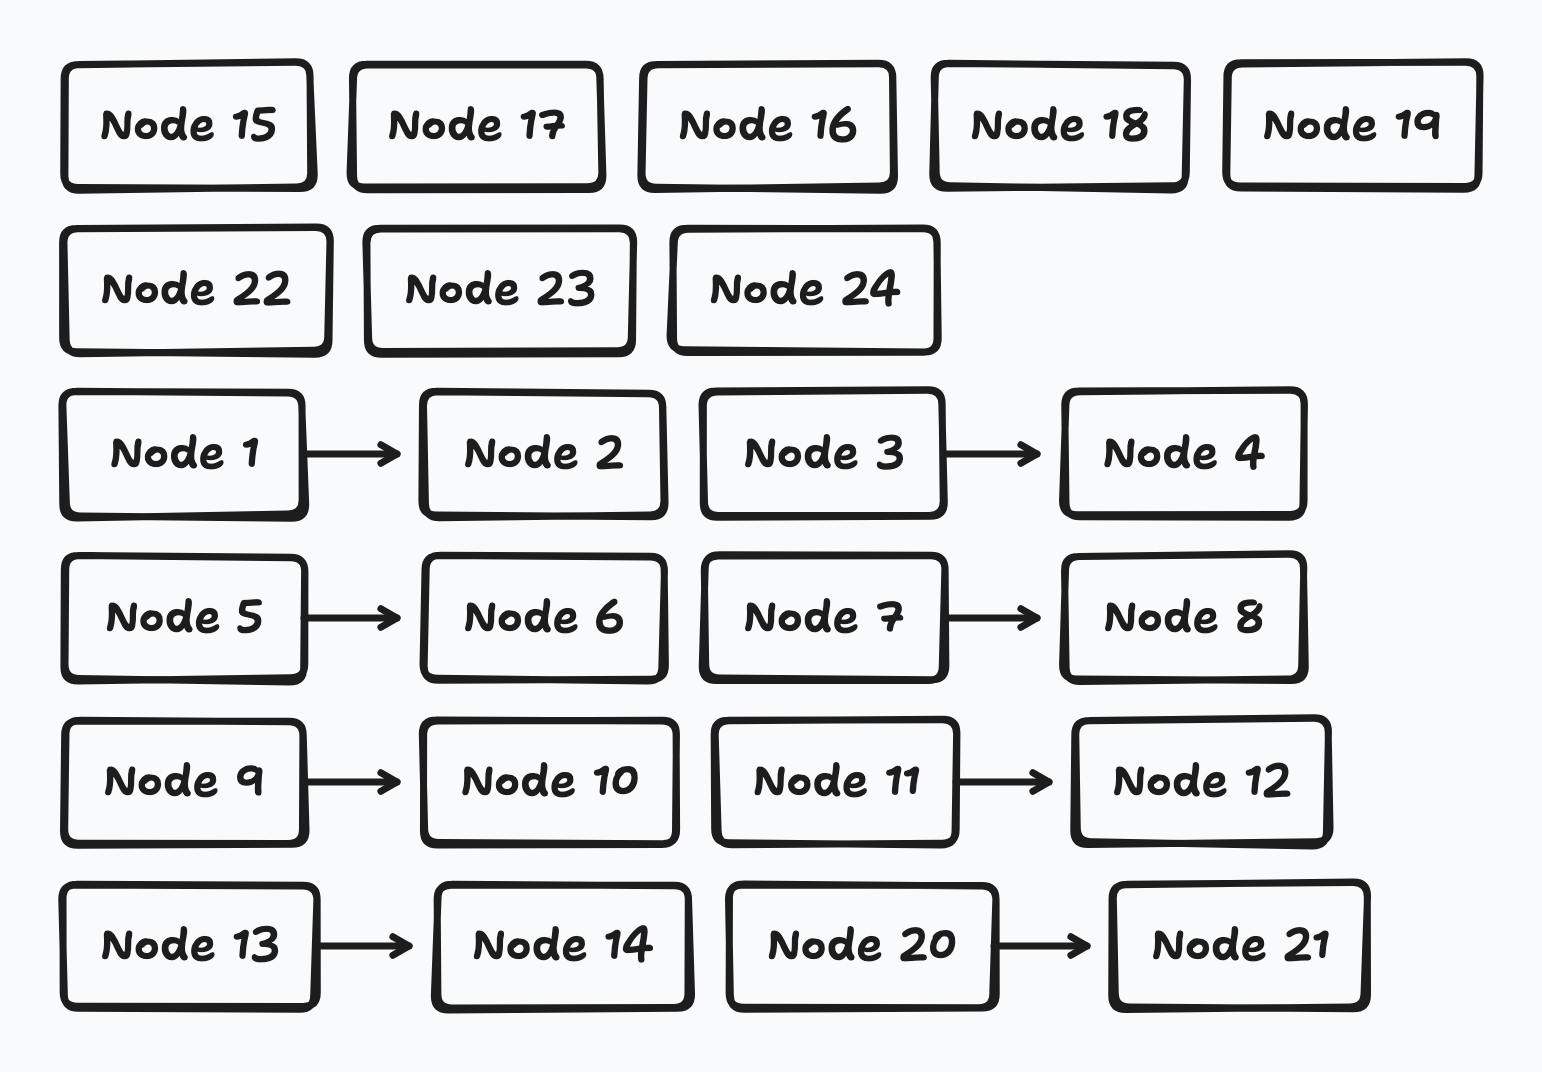
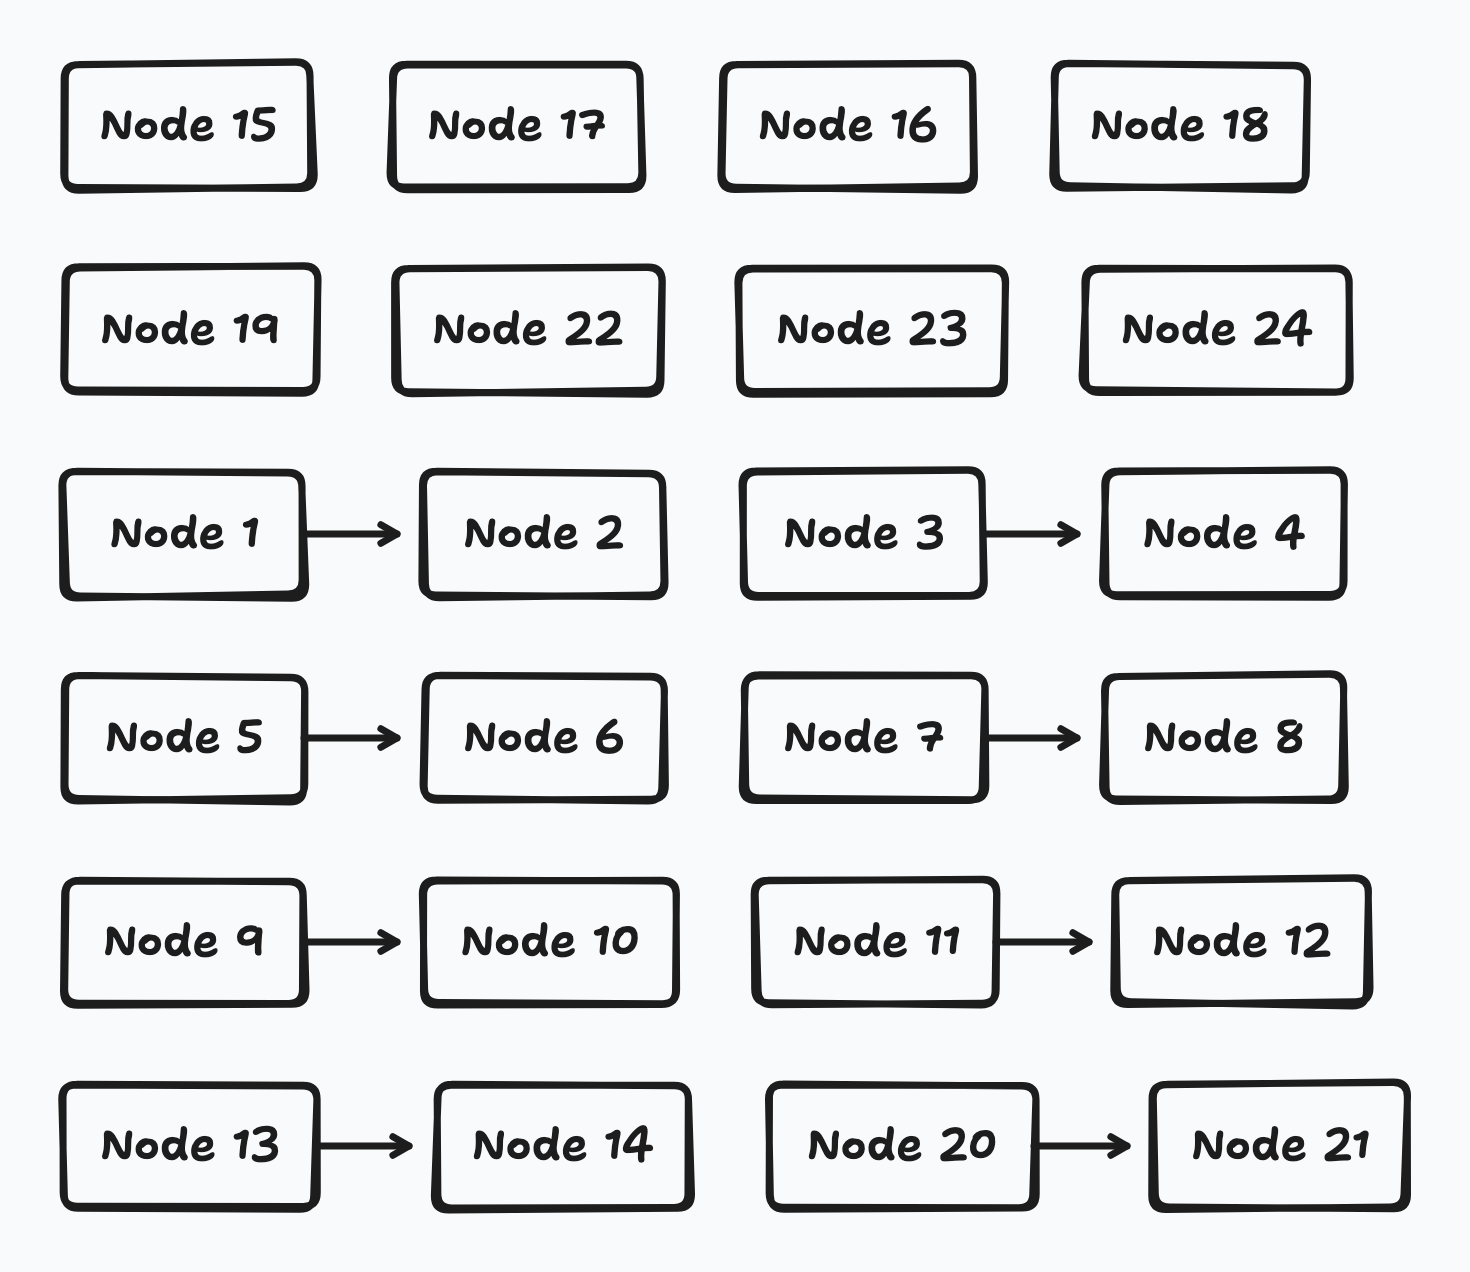
docs: T36 ticked, D7 marked fixed, sparse-graph re-rendered

Changed region(s): [[0.0306, 0.0308, 0.9796, 0.9543]]

diff --git a/docs/plan.md b/docs/plan.md
@@ -2452,7 +2452,45 @@ only test it gets against material T24 did not choose.
   an obstacle-clearance requirement, not a separation artefact - is untouched.
   That half is D21's, which the triage already deferred. `npm run check` green
   (661 tests); four new unit tests in `src/domain/layout/routing.test.ts`.
-- [ ] **T36. Fix the next defect.**
+- [x] **T36. Fix the next defect.**
+  Took D7, the second row of the triage. All three of its symptoms - a chain
+  packing as a 2x2 block, `gap="40"` and `gap="400"` rendering identically at
+  20px, `direction` inert - are **one cause**: `collectAutoEdges(children)`
+  walked only the container's own subtree, and in `tcp-states` (and in the D7
+  repro, and in the way the skill documents `<Graph>`) the `<Edge>` elements are
+  siblings of the `<Graph>`, not children of it. ELK was handed a graph with
+  eleven nodes and zero edges. Checked rather than assumed: a direct `elkjs`
+  probe showed `layered` with no edges degenerates to component packing, which
+  reads `elk.spacing.componentComponent` (default **20**) and has no direction to
+  honour - exactly the three symptoms, from one missing input. The auto branch of
+  `layoutContainer` now resolves owners against the document-wide edge list that
+  was already threaded down for label clearance (`docLabeledEdges` widened to
+  `docEdges`, filtered at its one clearance use site), and the adapter sets
+  `elk.spacing.componentComponent` to the requested gap so a genuinely
+  disconnected graph honours it too.
+
+  Repro: `a -> b -> c -> d` at `gap="400" direction="RIGHT"` was 324 x 208 with
+  20px between boxes, now a straight horizontal chain at 2344 x 126 with 600px
+  between layers; the same file at `gap="40" direction="DOWN"` is a vertical
+  chain at 184 x 492 with 60px between layers. The two differ, which is what D7
+  asked for. `examples/tcp-states`: crossings **13 -> 5**, crowded pairs
+  **5 -> 1**, label overlaps **31 -> 4**, and the render stops being a pile -
+  eleven states read top-down as a real state machine. `sparse-graph` moved
+  (707 x 472 -> 671 x 572, repacks 5-wide to 4-wide) because its disconnected
+  nodes now separate at the requested gap; every counter stays at zero and its
+  PNG is re-rendered. `graph-topology` and `order-states` are byte-identical -
+  both declare their edges inside the auto container already.
+
+  Two things deliberately not done. The **flow** branch still uses
+  `collectAutoEdges(children)` for its fan and chain heuristics, so a `<Row>`
+  whose edges are declared outside it still cannot see them; widening that too
+  would move every grid render in the corpus and belongs in its own wake
+  (logged in Discovered work). And `tcp-states` is still visibly wrong in its
+  **labels** - three overprint each other on `FIN_WAIT_1`, `passive open / -` is
+  clipped at the canvas edge - which is D13 and D8, owned by T37. Not touched
+  here. `npm run check` green, 662 tests / 59 files; one new unit test in
+  `stack.test.ts` asserting the placer receives an edge declared outside its
+  container.
 - [ ] **T37. Fix the next defect.**
 - [ ] **T38. Fix the next defect.**
   Four wakes, each taking the highest unfixed entry from T34's ordered list.
@@ -2878,6 +2916,24 @@ as-is.
 
 ## Discovered work
 
+- **T36: the flow branch still cannot see edges declared outside its
+  container.** T36 widened only the `mode === "auto"` branch to the document-wide
+  edge list. `findFanGroups`, `formsChain` and the serpentine decision in the
+  row/col/grid branch still call `collectAutoEdges(children)`, which walks only
+  the container's own subtree - so a `<Row>` or `<Col>` whose `<Edge>` elements
+  sit outside it gets no fan collapse and no chain detection, the same class of
+  bug D7 was. It was left alone on purpose: it would move every grid render in
+  the corpus at once and there would be no way to attribute the result to D7.
+  Worth its own wake with its own before/after.
+- **T36: `<Graph id="machine">` renders a frame titled `Frame`.** The auto
+  container in `tcp-states` has an `id` but no `name`, and the export writes the
+  literal string `Frame` into the frame's title. Visible at the top-left of
+  `examples/tcp-states`. Cosmetic, unrelated to placement, not in the ledger.
+- **T36: `elk.edgeRouting: "ORTHOGONAL"` is requested and then thrown away.**
+  The adapter asks ELK to route the edges and reads back only
+  `result.children`; the routed geometry is discarded, and arrows are redrawn as
+  straight chords by `computeEdgeRoutes`. Either consume the routes or stop
+  asking for them - D8's routing half and D21 both want the first option.
 - **T35: four corpus renders had already drifted from their committed PNGs
   before this wake touched anything.** Re-rendering `tests/corpus/` produced a
   different file for `c4-context`, `checkout-services`, `request-lifecycle` and

diff --git a/docs/baseline.md b/docs/baseline.md
@@ -695,3 +695,43 @@ vertical drop. `long-labels` is a wash: `auth -> router` swaps a down-left
 diagonal for a down-right one of identical length, and its rows now read
 backwards, which for a diagram whose boxes are full sentences is arguably worse
 prose order even though no metric notices.
+
+## T36 - `layout="auto"` gets its edges (D7)
+
+`collectAutoEdges(children)` walked only the container's own subtree, so an
+`<Edge>` declared as a *sibling* of the `<Graph>` - which is how every
+`layout="auto"` fixture in the repo is written - never reached ELK. With zero
+edges, `elk.algorithm: layered` has nothing to layer and falls through to
+component packing, which ignores `elk.spacing.nodeNode` (it uses
+`componentComponent`, default 20) and ignores `elk.direction`. One cause, all
+three of D7's symptoms. The doc-wide edge list that already threads down for
+label clearance is now the input to `resolveEdgeOwners` in the auto branch, and
+`elk.spacing.componentComponent` is set to the requested gap so a genuinely
+disconnected graph honours it too.
+
+Repro `examples/repro/d7-auto-ignores-graph.tldsl.jsx` (`a -> b -> c -> d`,
+`gap="400"`, `direction="RIGHT"`): 2x2 block at 324 x 208 with 20px between
+boxes, now a straight horizontal chain at 2344 x 126 with 600px between layers.
+The same file at `gap="40" direction="DOWN"` is a vertical chain at 184 x 492
+with 60px between layers - the two now differ, which is the acceptance D7 asked
+for.
+
+| file | canvas | crossings | crowded pairs | label overlaps |
+|---|---|---|---|---|
+| examples/tcp-states | 473 x 429 -> **817 x 1543** | 13 -> **5** | 5 -> **1** | 31 -> **4** |
+| sparse-graph | 707 x 472 -> 671 x 572 | 0 -> 0 | 0 -> 0 | 0 -> 0 |
+| graph-topology | unchanged | 0 | 0 | 0 |
+| order-states | unchanged | 3 | 0 | 1 |
+
+`tcp-states` is the diagram D7 was filed against and it stops being a pile: the
+eleven states now read top-down as a real layered state machine, `LISTEN` and
+`SYN_SENT` on the entry layer and `CLOSED` on the exit layer. `sparse-graph`
+moved because its 24 disconnected nodes now separate at the requested gap rather
+than ELK's 20px default - it repacks 5-wide to 4-wide and grows 100px taller,
+with every counter still at zero. `graph-topology` and `order-states` render
+byte-identically: both already declare their edges inside the auto container.
+
+Still wrong in `tcp-states`, and owned by T37/T38, not fixed here: three labels
+overprint each other on `FIN_WAIT_1` (D13), and `passive open / -` is clipped at
+the canvas edge because nothing reserves room for a label outside the node box
+(D8).

diff --git a/docs/diagram-defects.md b/docs/diagram-defects.md
@@ -19,7 +19,7 @@ decision.
 | # | Group | Entries | Severity | Diagrams | Consumed by |
 |---|---|---|---|---|---|
 | 1 | **An edge is a straight segment between two shape centres, and that is the whole path model** | D1, D5, D14 (+ D21, D8 routing half) | blocker | 6 / 6 | **T35** - D1 and D5 fixed, D14 half fixed in `729f3bd` |
-| 2 | **`layout="auto"` reaches ELK with none of its inputs** | D7 | blocker | 1 / 6 | **T36** |
+| 2 | **`layout="auto"` reaches ELK with none of its inputs** | D7 | blocker | 1 / 6 | **T36** - fixed |
 | 3 | **An edge label is stamped at the geometric midpoint and nothing reserves room for it** | D13, D11, D8 (label half), D9 (clearance half) | wrong | 5 / 6 | **T37** |
 | 4 | **Arrow label text is measured and wrapped by a different path than box label text** | D6, D9 (wrap half) | wrong | 3 / 6 | **T38** |
 | 5 | **A shape is sized by its own contents and the documented cap does not hold** | D3, D16, D20 | wrong | 3 / 6 | open |
@@ -324,7 +324,19 @@ blocker.
   with twenty labelled arrows between them, which is the illegible render this
   example ships.
 - **Repro:** `examples/repro/d7-auto-ignores-graph.tldsl.jsx`
-- **Status:** open
+- **Status:** fixed in T36. One cause behind all three symptoms: the auto
+  container collected edges only from its **own subtree**, and in every
+  `layout="auto"` file that renders badly the `<Edge>` elements are siblings of
+  the `<Graph>`, not children of it. ELK therefore received a graph with zero
+  edges, and `layered` with no edges degenerates to component packing - which
+  reads `elk.spacing.componentComponent` (default 20) instead of
+  `elk.spacing.nodeNode`, and has no direction to honour. The auto branch of
+  `layoutContainer` now resolves owners against the document-wide edge list that
+  was already threaded down for label clearance, and the adapter sets
+  `componentComponent` to the requested gap as well. `tcp-states` goes from 13
+  crossings / 5 crowded pairs / 31 label overlaps to 5 / 1 / 4 and reads as a
+  layered state machine. What is left in that diagram is labels, not placement -
+  D8 and D13 still stand.
 
 ### D8. An auto container reserves no room for edge labels and routes arrows over its nodes
 
